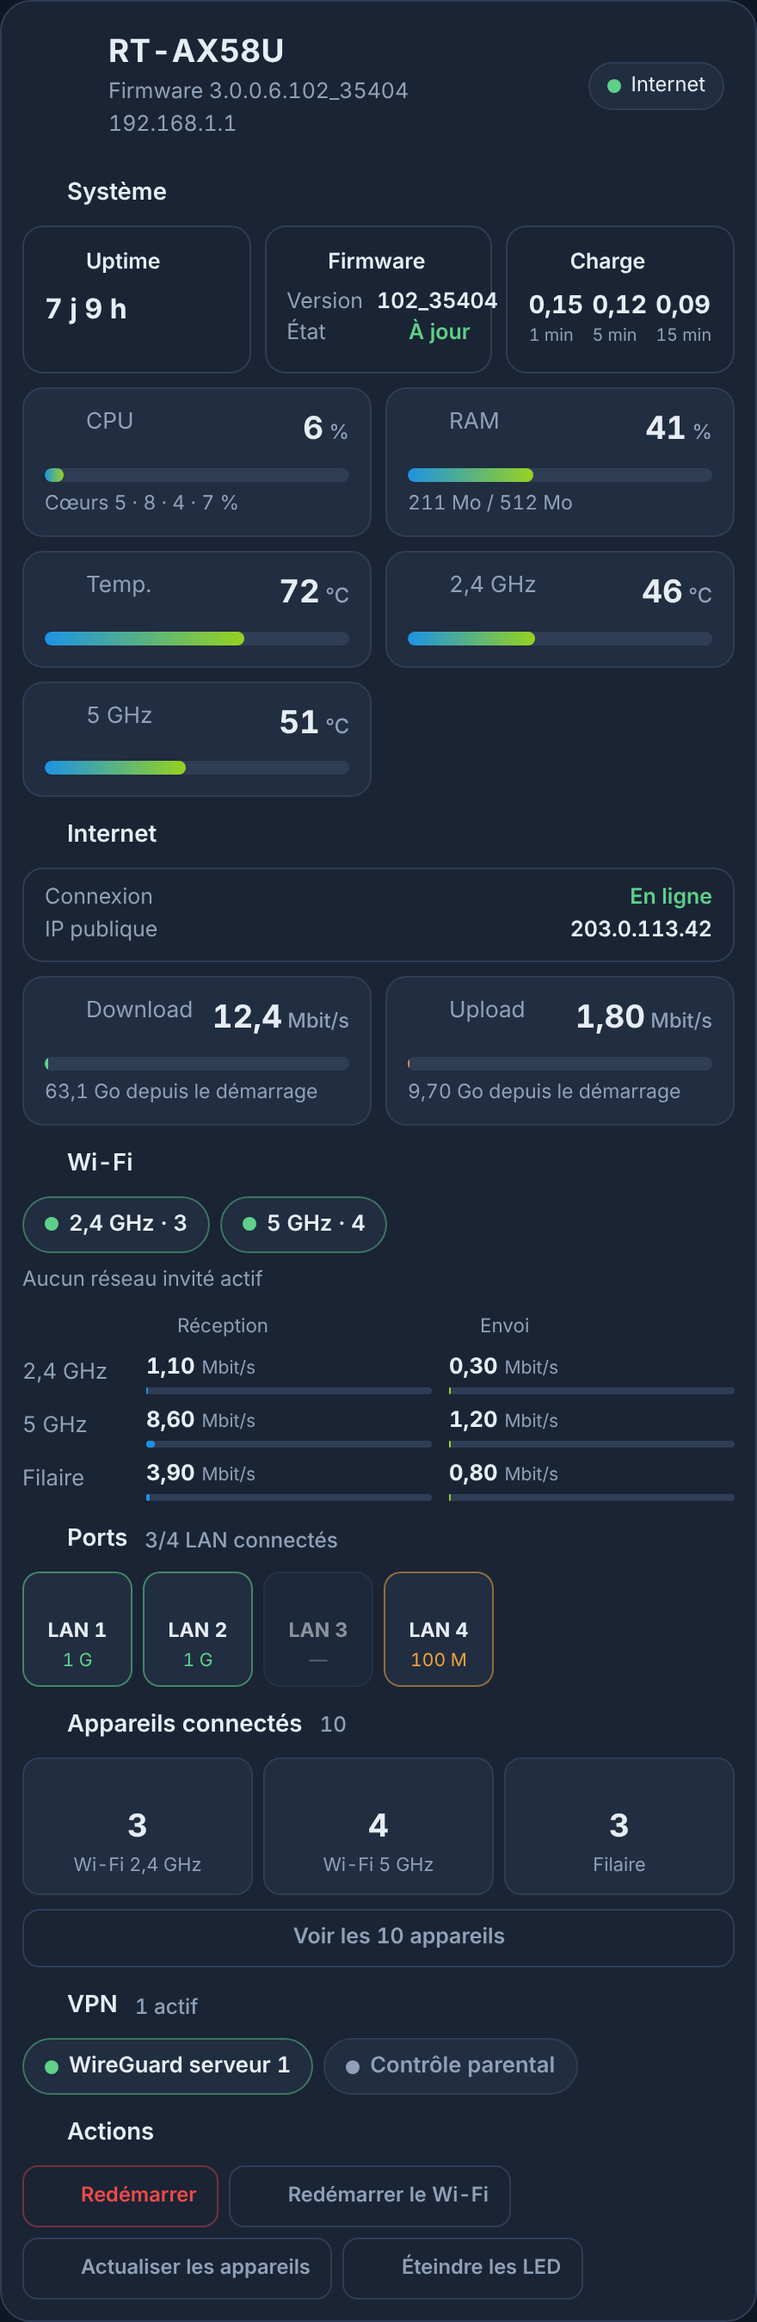
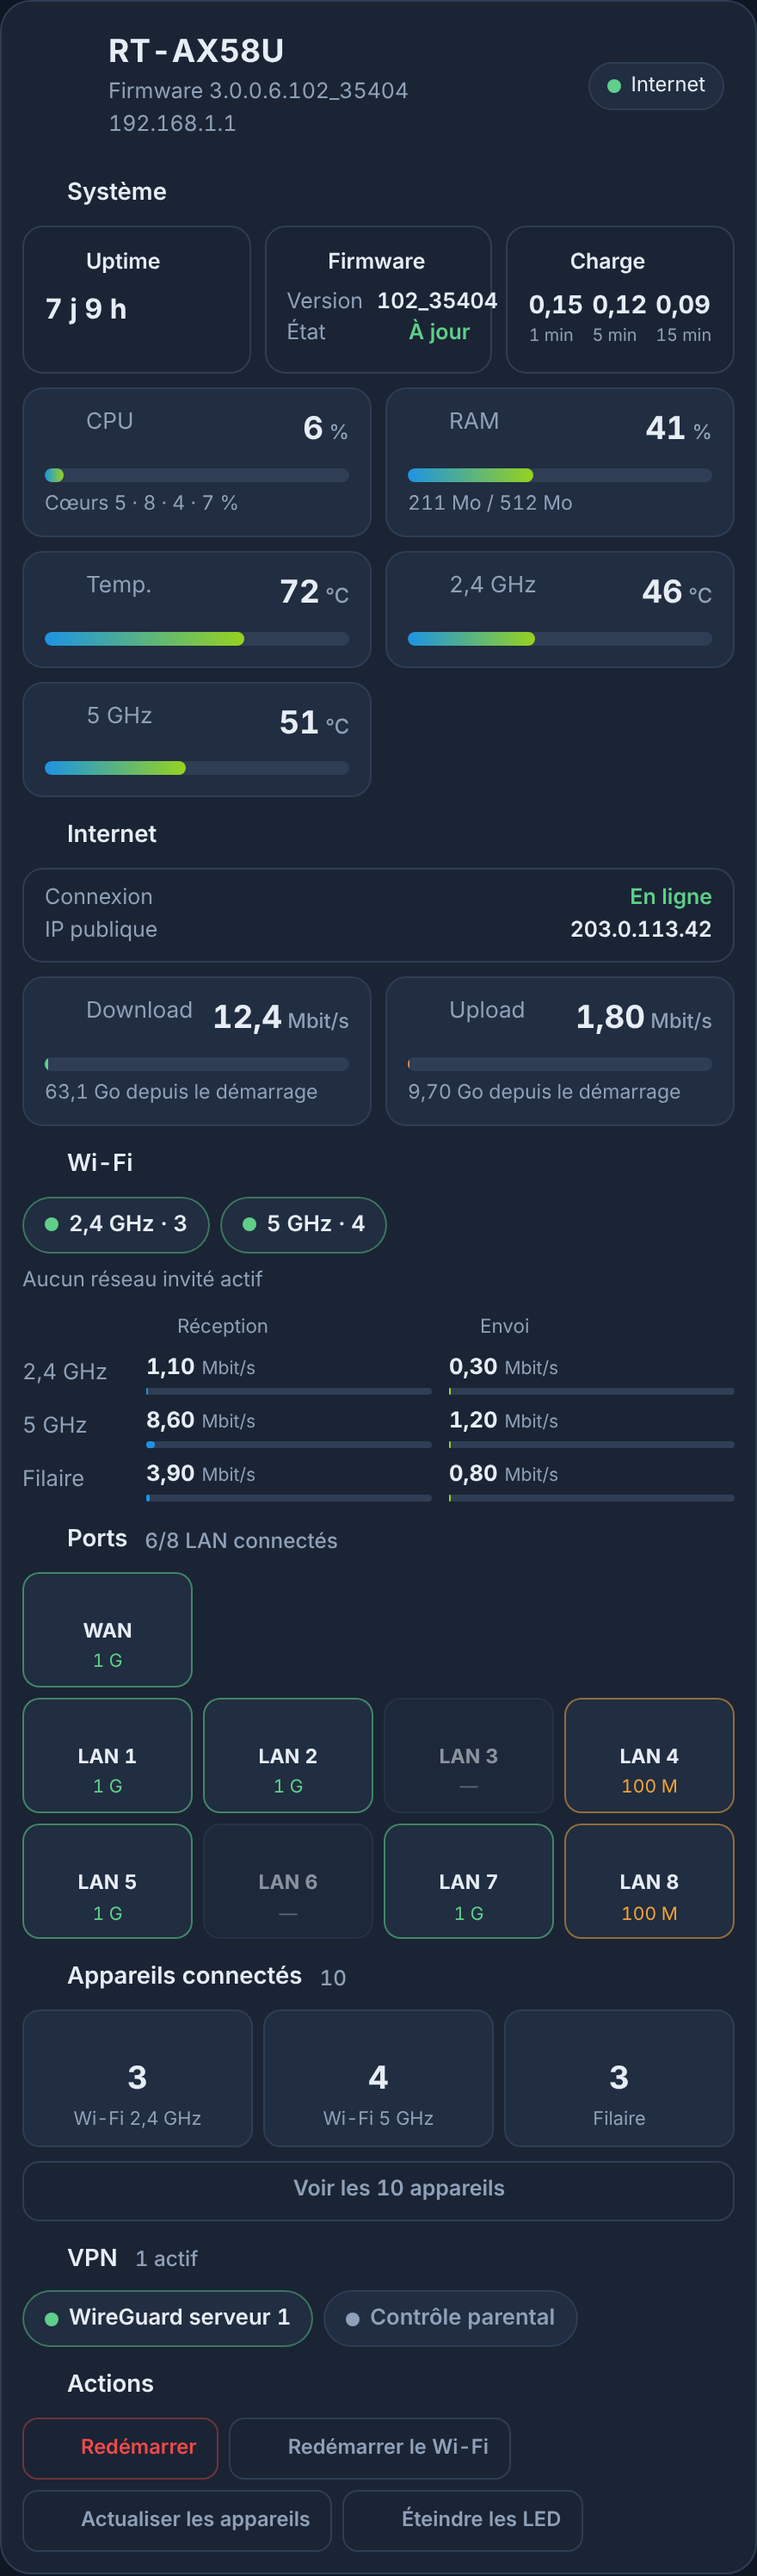
fix(web): ports par lignes de 4 et port WAN affiché, carte Routeur ASUS (0.10.0-beta.4)
Les ports LAN s'affichent par lignes de 4 (8 ports : 2 lignes), le port
WAN seul sur la première ligne. Le capteur « Port Status (WAN) » était
pris pour le capteur de connexion WAN : le port WAN n'apparaissait pas.

Claude-Session: https://claude.ai/code/session_01SRKBBjDQfQhyTgJMcHgPqQ

diff --git a/serveur-ha-card.js b/serveur-ha-card.js
@@ -19,7 +19,7 @@
  */
 
 (() => {
-const CARD_VERSION = "0.10.0-beta.3";
+const CARD_VERSION = "0.10.0-beta.4";
 
 /* ------------------------------------------------------------- affichage */
 
@@ -2051,7 +2051,7 @@ const ASUS_ROLES = [
   ["latest", "sensor", /_latest_connected$/],
   ["mesh", "sensor", /_aimesh$/],
   ["internet", "binary_sensor", /_internet$/],
-  ["wan", "binary_sensor", /(?<!_dual)_wan$/],
+  ["wan", "binary_sensor", /(?<!_dual|_port_status)_wan$/],
   ["ports_lan", "binary_sensor", /_port_status_lan$/],
   ["ports_wan", "binary_sensor", /_port_status_wan$/],
   ["wifi24", "switch", /_wireless_2_4_ghz$/],
@@ -2325,7 +2325,7 @@ class ServeurHaAsusCard extends HTMLElement {
           const cls = !up ? "off" : sp >= 1000 ? "g" : "m";
           return `<div class="asus-port ${cls}" data-entity="${esc(id)}" title="${esc(`${label} : ${up ? `connecté, ${speed(sp)}bit/s` : "déconnecté"}`)}"><ha-icon icon="mdi:ethernet"></ha-icon><b>${esc(label)}</b><small>${up ? speed(sp) : "—"}</small></div>`;
         };
-        const wan = list(r.ports_wan).map(([, p]) => port(r.ports_wan, "WAN", p));
+        const wan = list(r.ports_wan).map(([, p]) => port(r.ports_wan, "WAN", p).replace('class="asus-port ', 'class="asus-port wan '));
         const lan = list(r.ports_lan).map(([n, p]) => port(r.ports_lan, `LAN ${n}`, p));
         const upCount = list(r.ports_lan).filter(([, p]) => p?.state).length;
         ports = sec("mdi:ethernet", `Ports <small class="pve-n">${lan.length ? `${upCount}/${lan.length} LAN connectés` : ""}</small>`, wan.length || lan.length ? `<div class="asus-ports">${wan.join("")}${lan.join("")}</div>` : "");
@@ -2426,7 +2426,9 @@ const ASUS_STYLE = `<style>
 .asus-r::before { right: 0; background: var(--med-line); }
 .asus-r i { width: var(--w); background: var(--med-blue); }
 .asus-r.out i { background: var(--med-green); }
-.asus-ports { display: grid; grid-template-columns: repeat(auto-fill, minmax(62px, 1fr)); gap: 6px; }
+/* 4 ports par ligne (8 ports LAN : 2 lignes de 4, 16 ports : 4 lignes) ; le port WAN seul sur la première ligne */
+.asus-ports { display: grid; grid-template-columns: repeat(4, 1fr); gap: 6px; }
+.asus-port.wan + .asus-port { grid-column-start: 1; }
 .asus-port { display: flex; flex-direction: column; align-items: center; gap: 1px; padding: 6px 4px; border-radius: 10px; cursor: pointer;
   border: 1px solid var(--med-line); background: var(--med-surface); color: var(--med-muted); }
 .asus-port ha-icon { --mdc-icon-size: 18px; }

diff --git a/docs/demo.html b/docs/demo.html
@@ -452,7 +452,7 @@
     aa("binary_sensor", "wan", ad ? "off" : "on", { device_class: "connectivity" });
     aa("binary_sensor", "dual_wan", "off", { device_class: "connectivity" });
     aa("binary_sensor", "port_status_wan", "on", { list: { 0: { state: true, link_rate: 1000 } } });
-    aa("binary_sensor", "port_status_lan", "on", { list: { 1: { state: true, link_rate: 1000 }, 2: { state: true, link_rate: 1000 }, 3: { state: false, link_rate: 0 }, 4: { state: true, link_rate: 100 } } });
+    aa("binary_sensor", "port_status_lan", "on", { list: { 1: { state: true, link_rate: 1000 }, 2: { state: true, link_rate: 1000 }, 3: { state: false, link_rate: 0 }, 4: { state: true, link_rate: 100 }, 5: { state: true, link_rate: 1000 }, 6: { state: false, link_rate: 0 }, 7: { state: true, link_rate: 1000 }, 8: { state: true, link_rate: 100 } } });
     aa("switch", "wireless_2_4_ghz", "on", { ssid: "Maison", device_class: "wlan" });
     aa("switch", "wireless_5_ghz", "on", { ssid: "Maison-5G", device_class: "wlan" });
     aa("switch", "guest_2_4_ghz_1", ab ? "on" : "off", { ssid: "Invités" });

diff --git a/README.md b/README.md
@@ -334,7 +334,7 @@ Tout est ensuite détecté :
 - **Système** : uptime, firmware (à jour ou nouvelle version), charge moyenne (1, 5 et 15 min), jauges **CPU** (avec chaque cœur), **RAM** (Mo utilisés sur le total) et températures du processeur et des radios Wi-Fi (orange à 80 °C, rouge à 95 °C).
 - **Internet** : connexion, IP publique, débits download et upload, volume échangé depuis le démarrage du routeur.
 - **Wi-Fi** : bandes 2,4 et 5 GHz (activées ou non, nombre d'appareils, SSID au survol), réseaux invités actifs, débits en réception et en envoi par bande et en filaire. Seul le SSID est lu : le mot de passe du Wi-Fi, que l'intégration expose, n'est jamais affiché.
-- **Ports** : port WAN et ports LAN, connectés à 1 Gbit/s (vert), 100 Mbit/s (orange) ou déconnectés.
+- **Ports** : port WAN sur sa ligne, puis les ports LAN par lignes de 4 (8 ports : 2 lignes), connectés à 1 Gbit/s (vert), 100 Mbit/s (orange) ou déconnectés.
 - **Appareils connectés** : nombre total, en Wi-Fi 2,4 GHz, 5 GHz, filaire et sur le réseau invités. La liste est repliée : **Voir les appareils** déplie les dernières connexions et la liste complète (nom, adresse IP, connexion, depuis quand), **Réduire** la replie. Un clic sur une tuile (Wi-Fi 2,4 GHz, 5 GHz, filaire) n'affiche que ces appareils.
 - **VPN** : clients et serveurs OpenVPN ou WireGuard actifs, contrôle parental.
 - **Actions** : **Redémarrer**, **Redémarrer le Wi-Fi**, **Actualiser les appareils**, allumer ou éteindre les **LED**. Chaque bouton demande **un second clic dans les 5 secondes**.
